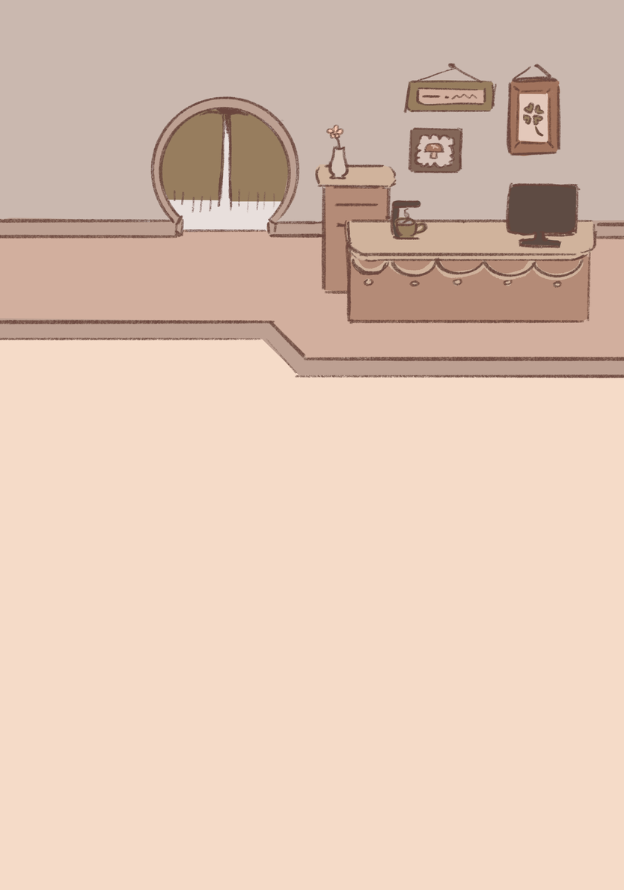
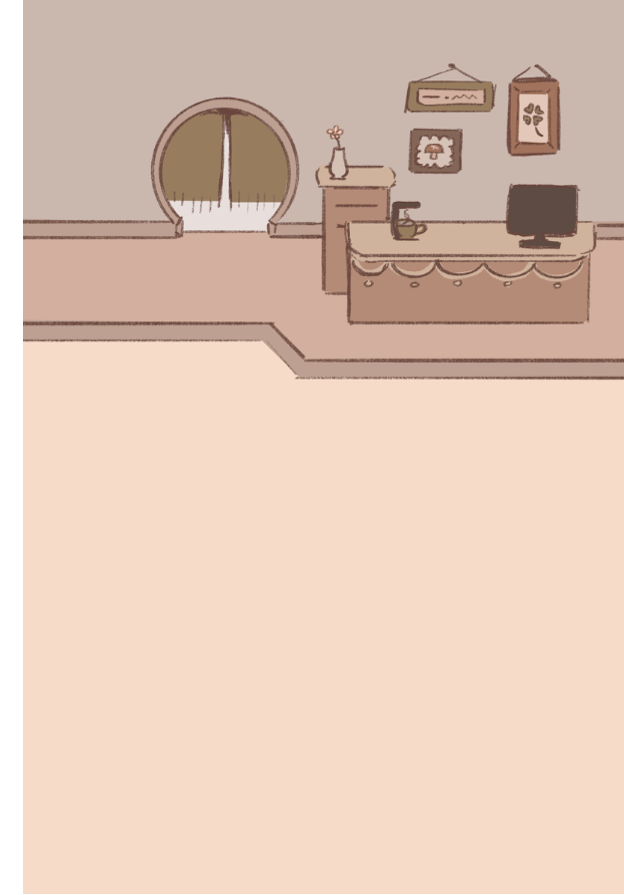
owner movements finished

Changed region(s): [[0.0, 0.0, 0.0609, 1.0]]

diff --git a/Group 5 Simulation/Owner.java b/Group 5 Simulation/Owner.java
@@ -17,6 +17,7 @@ public class Owner extends Staff
     // Here should have a button for players to choose the character they want
     // character 2 and 3 could have special ending
     private int num;
+    private boolean isLeftSide;
 
     // Define locations
     private int state = 0;
@@ -41,8 +42,9 @@ public class Owner extends Staff
     private static final int COUNTER_X = 155;
     private static final int COUNTER_Y = 190;
 
-    public Owner(int num){
+    public Owner(int num, boolean isLeftSide){
         this.num = num;
+        this.isLeftSide = isLeftSide;
         animationSpeed = 6;
         
         // Work for all characters
@@ -111,13 +113,19 @@ public class Owner extends Staff
     }
     
     public void act(){
-        goRoute();
+        if(isLeftSide){
+            goRouteLeft();
+        }else{
+            goRouteRight();
+        }
     }
     
-    public void goRoute(){
+    public void goRouteLeft(){
         if(state == 0){
             moveTo(A_X, A_Y);
             if(at(A_X, A_Y)){
+                // Can have a welcome sign here
+                //getWorld().showText("Welcome to my restaurant!", 300, 80);
                 state = 1;
             }
         }else if(state == 1){
@@ -140,6 +148,37 @@ public class Owner extends Staff
             if(at(E_X, E_Y)){
                 setImage(new GreenfootImage(1, 1)); // Disappear
                 getWorld().addObject(new CounterOwner(num), COUNTER_X, COUNTER_Y);
+                state = 5;
+            }
+        }
+    }
+    
+    public void goRouteRight(){
+        if(state == 0){
+            moveTo(810, A_Y);
+            if(at(810, A_Y)){
+                state = 1;
+            }
+        }else if(state == 1){
+            moveTo(885, B_Y);
+            if(at(885, B_Y)){
+                state = 2;
+            }
+        }else if(state == 2){
+            moveTo(885, C_Y);
+            if(at(885, C_Y)){
+                state = 3;
+            }
+        }else if(state == 3){
+            moveTo(1185, D_Y);
+            if(at(1185, D_Y)){
+                state = 4;
+            }
+        }else if(state == 4){
+            moveTo(1185, E_Y);
+            if(at(1185, E_Y)){
+                setImage(new GreenfootImage(1, 1));
+                getWorld().addObject(new CounterOwner(num), 1045, COUNTER_Y);
                 state = 5;
             }
         }

diff --git a/Group 5 Simulation/RestaurantWorld.java b/Group 5 Simulation/RestaurantWorld.java
@@ -47,7 +47,7 @@ public class RestaurantWorld extends World
         backgroundImage_player1 = new GreenfootImage("images/Background/backgroundImage_player1.png");
         backgroundImage_player2 = new GreenfootImage("images/Background/backgroundImage_player2.png");
         background.drawImage(backgroundImage_player1, 0, 0);
-        background.drawImage(backgroundImage_player2, getWidth() / 2, 1);
+        background.drawImage(backgroundImage_player2, getWidth() / 2 - 20, 0);
         setBackground (background);
         
         bg = getBackground();
@@ -56,7 +56,8 @@ public class RestaurantWorld extends World
         bg.fillRect((getWidth() / 2) - (middleLineThickness / 2), 0, middleLineThickness, getHeight());
 
         //addObject(new Customer(), 0, 0);
-        addObject(new Owner(character1), 390, 210);
+        addObject(new Owner(character1, true), 390, 210);
+        addObject(new Owner(character2, false), 810, 210);
         
         setupTables();
     }